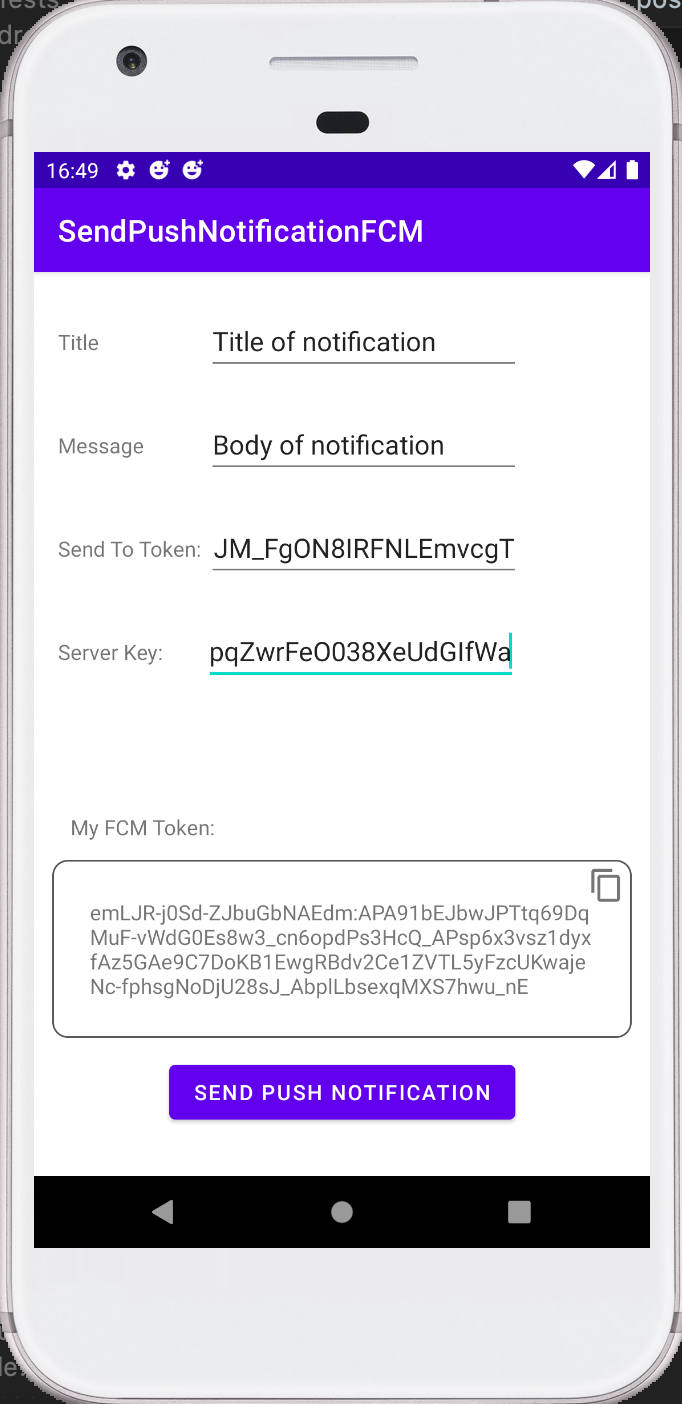
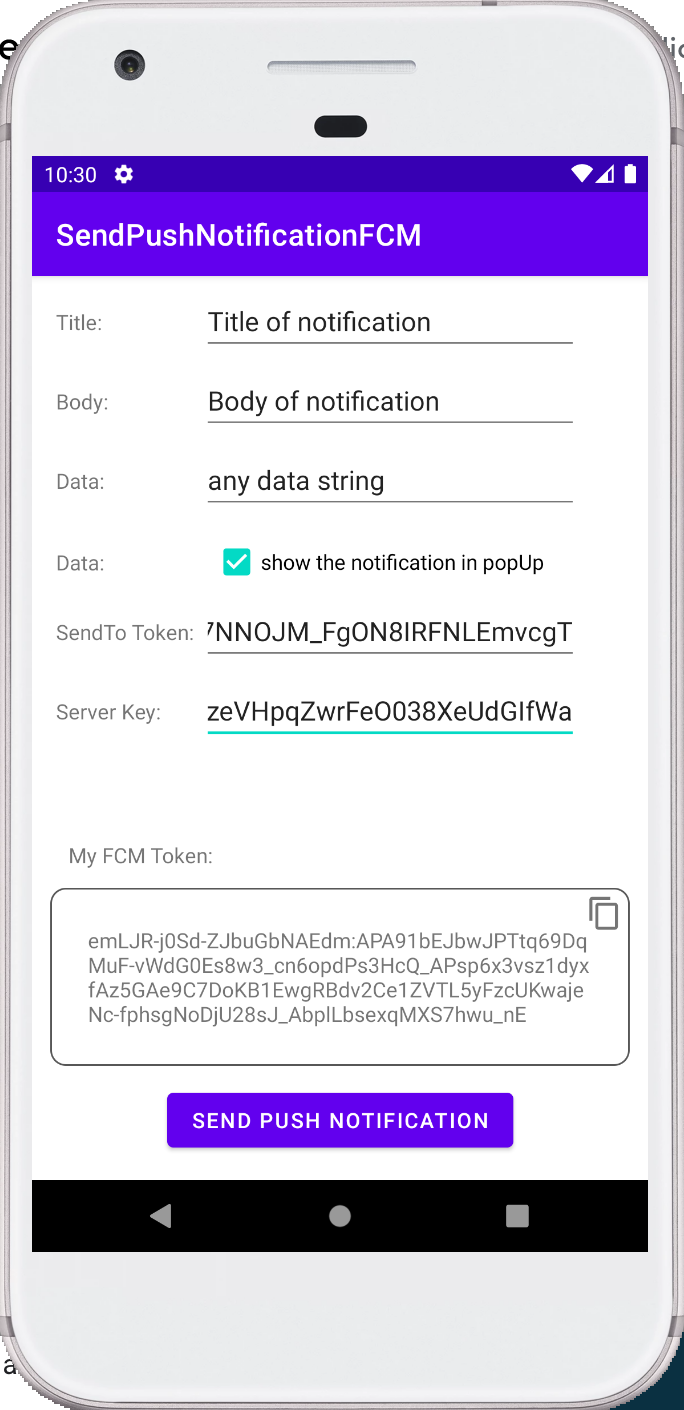
update the FirebaseMessageService to add notification and data fields

diff --git a/app/src/main/java/com/layon/sendpushnotificationfcm/MainActivity.kt b/app/src/main/java/com/layon/sendpushnotificationfcm/MainActivity.kt
@@ -10,8 +10,12 @@ import android.widget.Toast
 import com.google.android.gms.tasks.OnCompleteListener
 import com.google.firebase.messaging.FirebaseMessaging
 import com.google.gson.Gson
-import com.layon.sendpushnotificationfcm.Constants.Companion.CONTENT_TYPE
+import com.layon.sendpushnotificationfcm.utils.Constants.Companion.CONTENT_TYPE
 import com.layon.sendpushnotificationfcm.databinding.ActivityMainBinding
+import com.layon.sendpushnotificationfcm.model.Notification
+import com.layon.sendpushnotificationfcm.model.NotificationData
+import com.layon.sendpushnotificationfcm.model.PushNotification
+import com.layon.sendpushnotificationfcm.repository.RetrofitInstance
 import kotlinx.coroutines.CoroutineScope
 import kotlinx.coroutines.Dispatchers
 import kotlinx.coroutines.launch
@@ -31,27 +35,25 @@ class MainActivity : AppCompatActivity() {
         val view = binding.root
         setContentView(view)
 
-        //get the actual FCM
+        //get the actual FCM token
         FirebaseMessaging.getInstance().token.addOnCompleteListener(OnCompleteListener { task ->
             if (!task.isSuccessful) {
                 Log.w(TAG, "Fetching FCM registration token failed", task.exception)
                 return@OnCompleteListener
             }
-
-            // Get new FCM registration token
             val token = task.result
-
             binding.textViewMyFCMToken.text = "$token"
-            Log.d("layon.f", "FcmToken: $token")
         })
 
         FirebaseMessaging.getInstance().subscribeToTopic(TOPIC)
 
         binding.button.setOnClickListener {
-            val title = binding.editTextTextPersonNameTitle.text.toString()
-            val message = binding.editTextTextPersonNameMessage.text.toString()
-            val recipientToken = binding.editTextTextPersonSendToken.text.toString()
-            serverKey = binding.editTextTextPersonServerKey.text.toString()
+            val title = binding.editTextTitle.text.toString()
+            val message = binding.editTextBody.text.toString()
+            val data = binding.editTextData.text.toString()
+            val showPopUp = binding.checkBoxShowPopUp.isChecked
+            val recipientToken = binding.editTextSendToken.text.toString()
+            serverKey = binding.editTextServerKey.text.toString()
 
             if(title.isNotEmpty() && message.isNotEmpty()) {
 
@@ -63,11 +65,12 @@ class MainActivity : AppCompatActivity() {
                 }
 
                 PushNotification(
-                    NotificationData(title, message),
-                    recipientToken
+                    notification = Notification(title = title, body = message),
+                    data = NotificationData(data = data, showPopUp = showPopUp),
+                    to = recipientToken
                 ).also {
                     sendNotification(it)
-                    showToast("Trying send notification")
+                    showToast("notification sent")
                 }
             }
         }

diff --git a/app/src/main/java/com/layon/sendpushnotificationfcm/service/FirebaseMessagingService.kt b/app/src/main/java/com/layon/sendpushnotificationfcm/service/FirebaseMessagingService.kt
@@ -1,4 +1,4 @@
-package com.layon.sendpushnotificationfcm
+package com.layon.sendpushnotificationfcm.service
 
 import android.app.NotificationChannel
 import android.app.NotificationManager
@@ -10,22 +10,25 @@ import android.util.Log
 import androidx.core.app.NotificationCompat
 import com.google.firebase.messaging.FirebaseMessagingService
 import com.google.firebase.messaging.RemoteMessage
+import com.layon.sendpushnotificationfcm.MainActivity
+import com.layon.sendpushnotificationfcm.R
 import kotlin.random.Random
 
 private const val CHANNEL_ID = "sendpushnotificationfcm_channel"
 
 class FirebaseMessagingService : FirebaseMessagingService() {
 
-    override fun onMessageReceived(message: RemoteMessage) {
-        super.onMessageReceived(message)
+    override fun onMessageReceived(remoteMessage: RemoteMessage) {
+        super.onMessageReceived(remoteMessage)
 
-        //test
-        Log.d("layon.f", "message: $message")
-        Log.d("layon.f", "message.from: ${message.from}")
-        Log.d("layon.f", "message.data: ${message.data}")
-        Log.d("layon.f", "message.notification: ${message.notification?.title} ${message.notification?.body}")
+        Log.d("layon.f", "message: $remoteMessage")
+        Log.d("layon.f", "message.from: ${remoteMessage.from}")
+        Log.d("layon.f", "message.data: ${remoteMessage.data}")
+        Log.d("layon.f", "message.notification: ${remoteMessage.notification?.title} ${remoteMessage.notification?.body}")
 
-        createNotification(message.data["title"].toString(), message.data["message"].toString())
+        remoteMessage.notification?.let { notification ->
+            createNotification(notification.title.toString(), notification.body.toString())
+        }
     }
 
     fun createNotification(title: String, message: String) {

diff --git a/app/src/main/java/com/layon/sendpushnotificationfcm/repository/RetrofitInstance.kt b/app/src/main/java/com/layon/sendpushnotificationfcm/repository/RetrofitInstance.kt
@@ -1,6 +1,6 @@
-package com.layon.sendpushnotificationfcm
+package com.layon.sendpushnotificationfcm.repository
 
-import com.layon.sendpushnotificationfcm.Constants.Companion.BASE_URL
+import com.layon.sendpushnotificationfcm.utils.Constants.Companion.BASE_URL
 import okhttp3.OkHttpClient
 import okhttp3.logging.HttpLoggingInterceptor
 import retrofit2.Retrofit

diff --git a/app/src/main/java/com/layon/sendpushnotificationfcm/model/NotificationData.kt b/app/src/main/java/com/layon/sendpushnotificationfcm/model/NotificationData.kt
@@ -1,0 +1,8 @@
+package com.layon.sendpushnotificationfcm.model
+
+//This data class will be received in FirebaseMessagingService::class#onMessageReceived() from RemoteMessage.data object
+data class NotificationData(
+    //to add new notification create new fields here
+    val data: String,
+    val showPopUp: Boolean = true
+)

diff --git a/app/src/main/java/com/layon/sendpushnotificationfcm/model/Notification.kt b/app/src/main/java/com/layon/sendpushnotificationfcm/model/Notification.kt
@@ -1,0 +1,7 @@
+package com.layon.sendpushnotificationfcm.model
+
+//This data class will be received in FirebaseMessagingService::class#onMessageReceived() from RemoteMessage.notification object
+data class Notification(
+    val title: String,
+    val body: String
+)

diff --git a/app/src/main/java/com/layon/sendpushnotificationfcm/repository/NotificationAPI.kt b/app/src/main/java/com/layon/sendpushnotificationfcm/repository/NotificationAPI.kt
@@ -1,6 +1,7 @@
-package com.layon.sendpushnotificationfcm
+package com.layon.sendpushnotificationfcm.repository
 
 
+import com.layon.sendpushnotificationfcm.model.PushNotification
 import okhttp3.ResponseBody
 import retrofit2.Response
 import retrofit2.http.Body

diff --git a/app/src/main/java/com/layon/sendpushnotificationfcm/model/PushNotification.kt b/app/src/main/java/com/layon/sendpushnotificationfcm/model/PushNotification.kt
@@ -1,0 +1,7 @@
+package com.layon.sendpushnotificationfcm.model
+
+data class PushNotification(
+    val notification: Notification,
+    val data : NotificationData,
+    val to : String //fcm token of who will receive the push notification
+)

diff --git a/app/src/main/java/com/layon/sendpushnotificationfcm/utils/Constants.kt b/app/src/main/java/com/layon/sendpushnotificationfcm/utils/Constants.kt
@@ -1,4 +1,4 @@
-package com.layon.sendpushnotificationfcm
+package com.layon.sendpushnotificationfcm.utils
 
 class Constants {
 
